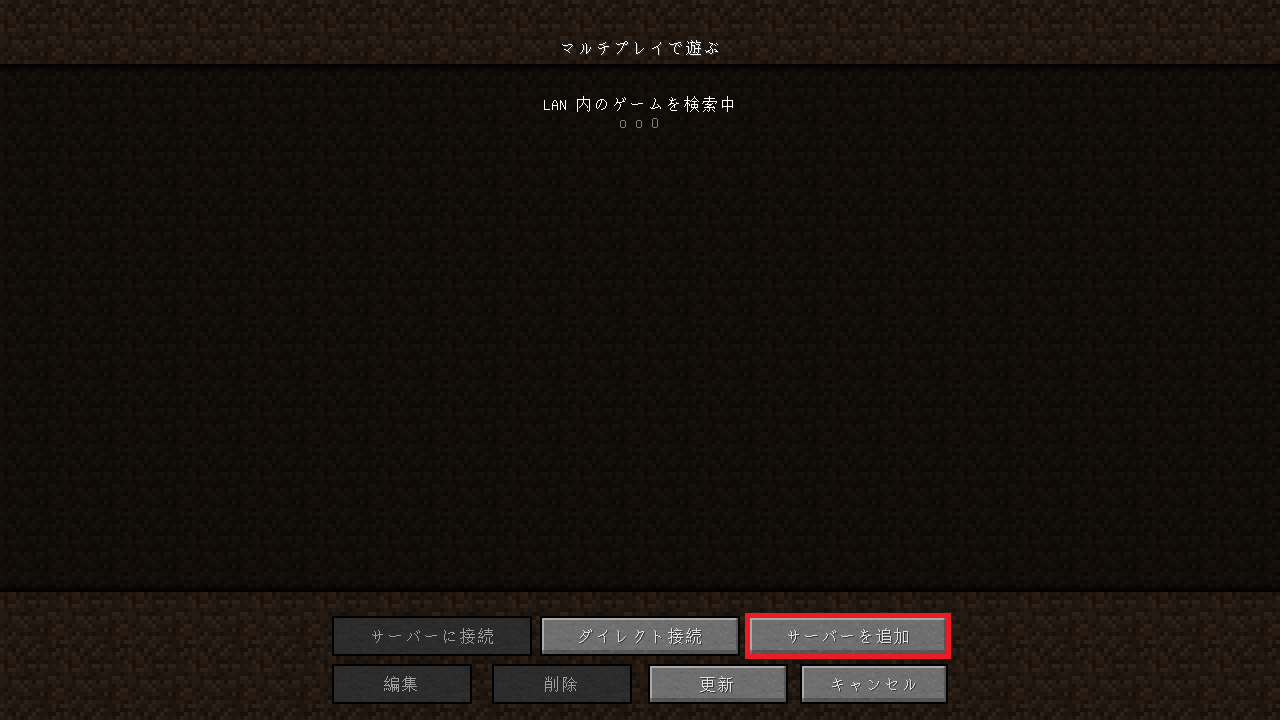
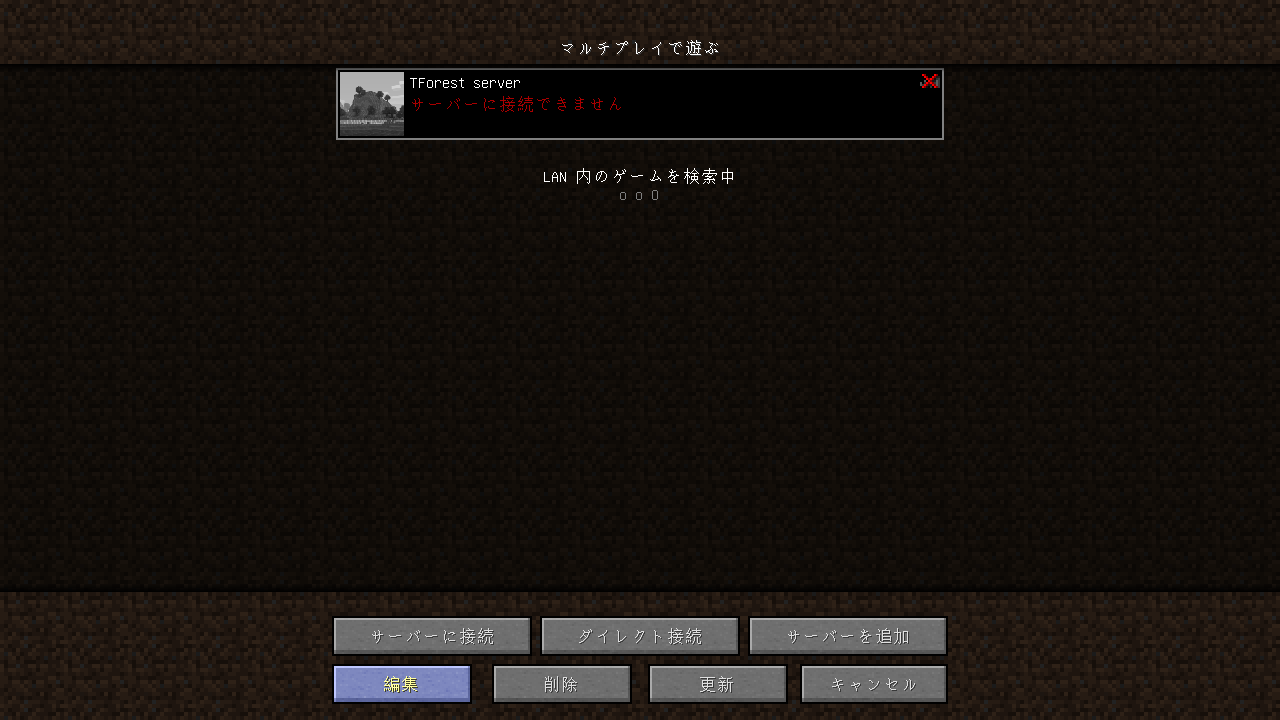
Update

diff --git a/connect.html b/connect.html
@@ -18,20 +18,23 @@
 			1. Minecraftのタイトル画面を開きます<br>
 			2. <b>マルチプレイ</b>→<b>サーバーを追加</b>の順にクリックします<br>
 			3. <b>サーバー名</b>に区別しやすい任意の名前を、<b>サーバーアドレス</b>に<b>0.tcp.jp.ngrok.io</b>と入力します<br>
+			<img src="src/connect1.png" alt="Add server"><br>
 			4. <b>完了</b>をクリックします。リストに追加されます<br>
-		</p><br>
+		</p>
 		<h3>サーバーに接続する</h3>
 		追加したサーバーに接続します。この操作は参加する時に行います。<br>
 		<p>
 			1. サーバーリストを開き、追加したサーバーをクリックして選択します<br>
 			2. <b>編集</b>をクリックします<br>
-			3. <b>サーバーアドレス</b>の語尾に<b>:</b>+<b>ポート番号</b>を入力します  例:<b>0.tcp.jp.ngrok.io:10346</b><br>
+			<img src="src/connect2.png" alt="Edit server 1"><br>
+			3. <b>サーバーアドレス</b>の語尾に<b>:</b>+<b>ポート番号</b>を入力します      例:<b>0.tcp.jp.ngrok.io:10346</b><br>
 			<span style="margin-left: 1em"> </span><b>ポート番号</b>はサーバーのセットアップが完了次第、LINEまたはメールで送信します。<br>
+			<img src="src/connect3.png" alt="Edit server 2"><br>
 			4. <b>完了</b>をクリックし、追加したサーバーをダブルクリックすると接続が開始されます<br>
 			<span style="margin-left: 1em"> </span>切断する場合は、<b>ゲームメニュー</b>(<b>Esc</b>キー)→<b>切断</b>をクリックします。<br>
 		</p>
 		ポート番号は固定できないため、接続するたび(参加中に突然切断されてしまった場合を除く)にこの操作を行う必要があります。<br>
-		※使用しているサービスの都合上、サーバー側でサービスを使用するためのソフトウェアを終了するたびに自動で変わってしまうため<br><br>
+		※使用しているサービスの都合上、サーバー側でサービスを使用するためのソフトウェアを終了するたびに自動で変わってしまうため<br>
 		<h3>留意点</h3>
 		<nav>
 			<ul>
@@ -47,7 +50,7 @@
 				</ul>
 				<li>万が一接続できない等あった場合はすぐに連絡してください<br>
 			</ul>
-		</nav><br>
+		</nav>
 		<hr>
 		<a href="index.html">トップページへ戻る</a>
 	</body>
